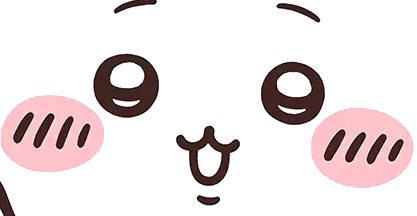
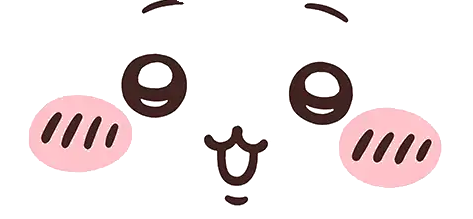
fix : 얼굴을 머리 안쪽 영역만 남기도록 수정, 웹폰트 선로딩 제거

diff --git a/src/app/globals.css b/src/app/globals.css
@@ -43,9 +43,9 @@ body {
   line-height: 1.65;
   -webkit-font-smoothing: antialiased;
 }
-h1, h2, h3, .display { font-family: var(--font-display), var(--font-body), sans-serif; font-weight: 700; letter-spacing: -0.025em; line-height: 1.33; }
+h1, h2, h3, .display { font-family: var(--font-body), sans-serif; font-weight: 700; letter-spacing: -0.025em; line-height: 1.33; }
 /* 페이지 타이틀과 섹션 제목에만 귀여운 서체를 쓴다. 카드 제목·가격은 읽기 쉬운 산세리프 유지. */
-h1, .brand, .section-head h2, .page-head h1, .hero h1 { font-family: var(--font-cute), var(--font-display), sans-serif; font-weight: 700; letter-spacing: -0.01em; }
+h1, .brand, .section-head h2, .page-head h1, .hero h1 { font-family: var(--font-cute), var(--font-body), sans-serif; font-weight: 700; letter-spacing: -0.01em; }
 h1 { font-size: 2.05rem; margin: 0 0 0.25rem; }
 h2 { font-size: 1.3rem; margin: 0 0 0.75rem; }
 h3 { font-size: 1.08rem; margin: 0; }
@@ -87,7 +87,7 @@ li { margin-bottom: 0.3em; }
 .drawer { margin: 0 0 0 auto; width: min(304px, 84vw); max-width: none; height: 100dvh; max-height: none; border: none; padding: 0; background: transparent; overflow: visible; }
 .drawer-panel { height: 100%; padding: 18px 12px calc(20px + env(safe-area-inset-bottom)); background: var(--bg); border-left: 1px solid var(--line); overflow-y: auto; }
 .drawer-head { display: flex; align-items: center; justify-content: space-between; padding: 0 4px 0 14px; margin-bottom: 14px; }
-.drawer-title { font-family: var(--font-cute), var(--font-display), sans-serif; font-weight: 700; font-size: 1.16rem; color: var(--ink); }
+.drawer-title { font-family: var(--font-cute), var(--font-body), sans-serif; font-weight: 700; font-size: 1.16rem; color: var(--ink); }
 .drawer ul { list-style: none; padding: 0; margin: 0; display: grid; gap: 4px; }
 .drawer li { margin: 0; }
 .drawer a { display: flex; align-items: center; gap: 12px; padding: 13px 14px; border-radius: 14px; color: var(--ink-soft); font-weight: 600; font-size: 1.02rem; }
@@ -138,9 +138,9 @@ li { margin-bottom: 0.3em; }
 .card-media.contain { background: var(--surface); }
 .card-media.contain img { object-fit: contain; padding: 10px; }
 .card-body { padding: 12px 14px 15px; display: grid; gap: 5px; flex: 1; align-content: start; }
-.card-title { font-family: var(--font-display); font-weight: 700; font-size: 1rem; line-height: 1.38; letter-spacing: -0.025em; display: -webkit-box; -webkit-line-clamp: 2; -webkit-box-orient: vertical; overflow: hidden; }
+.card-title { font-family: var(--font-body), sans-serif; font-weight: 700; font-size: 1rem; line-height: 1.38; letter-spacing: -0.025em; display: -webkit-box; -webkit-line-clamp: 2; -webkit-box-orient: vertical; overflow: hidden; }
 .card-sub { font-size: 0.8rem; color: var(--muted); white-space: nowrap; overflow: hidden; text-overflow: ellipsis; }
-.card-price { font-family: var(--font-display); font-weight: 700; font-size: 1.05rem; color: var(--ink); white-space: nowrap; overflow: hidden; text-overflow: ellipsis; }
+.card-price { font-family: var(--font-body), sans-serif; font-weight: 700; font-size: 1.05rem; color: var(--ink); white-space: nowrap; overflow: hidden; text-overflow: ellipsis; }
 .card-badge { position: absolute; top: 9px; left: 9px; }
 
 /* ── 태그 / 칩 ───────────────────────────── */
@@ -166,7 +166,7 @@ li { margin-bottom: 0.3em; }
 .kv { display: grid; grid-template-columns: max-content minmax(0, 1fr); gap: 7px 16px; font-size: 0.95rem; }
 .kv dt { color: var(--muted); font-weight: 600; }
 .kv dd { margin: 0; }
-.btn { display: inline-flex; align-items: center; gap: 6px; padding: 11px 20px; border-radius: 999px; background: var(--ink); color: #fff; font-family: var(--font-display); font-weight: 700; font-size: 0.95rem; }
+.btn { display: inline-flex; align-items: center; gap: 6px; padding: 11px 20px; border-radius: 999px; background: var(--ink); color: #fff; font-family: var(--font-body), sans-serif; font-weight: 700; font-size: 0.95rem; }
 .btn:hover { opacity: 0.88; }
 .btn.soft { background: var(--pink); color: var(--accent-ink); }
 .back { display: inline-block; margin-bottom: 12px; color: var(--muted); font-size: 0.9rem; font-weight: 600; }
@@ -177,7 +177,7 @@ li { margin-bottom: 0.3em; }
 .table th, .table td { text-align: left; padding: 9px 11px; border-bottom: 1px solid var(--line); vertical-align: top; }
 .table th { color: var(--muted); font-weight: 600; }
 .table tr:hover td { background: var(--surface-2); }
-.table td.num { font-family: var(--font-display); font-weight: 700; color: var(--ink-soft); white-space: nowrap; }
+.table td.num { font-family: var(--font-body), sans-serif; font-weight: 700; color: var(--ink-soft); white-space: nowrap; }
 .table td:last-child { font-size: 0.85rem; }
 .table-wrap { overflow-x: auto; }
 
@@ -304,7 +304,7 @@ li { margin-bottom: 0.3em; }
 .fields input:focus { outline: none; border-color: var(--pink-deep); }
 
 .result .total { font-size: 1.1rem; margin: 14px 0 0; padding-top: 14px; border-top: 1px solid var(--line); display: flex; justify-content: space-between; align-items: baseline; }
-.result .total strong { font-family: var(--font-display); font-size: 1.7rem; }
+.result .total strong { font-family: var(--font-body), sans-serif; font-size: 1.7rem; }
 .markup { margin-top: 14px; background: var(--pink); border-radius: 14px; padding: 14px 16px; }
 .markup > strong:first-child { display: block; margin-bottom: 5px; color: var(--accent-ink); }
 .markup p { font-size: 0.88rem; margin: 0; line-height: 1.65; }
@@ -342,7 +342,7 @@ li { margin-bottom: 0.3em; }
   transform: translate(-50%, -100%);
   background: var(--surface);
   color: var(--ink);
-  font-family: var(--font-cute), var(--font-display), sans-serif;
+  font-family: var(--font-cute), var(--font-body), sans-serif;
   font-size: 1.05rem;
   padding: 7px 15px;
   border-radius: 999px;

diff --git a/src/app/layout.tsx b/src/app/layout.tsx
@@ -1,14 +1,32 @@
 import type { Metadata, Viewport } from 'next';
-import { Gaegu, Gothic_A1, Noto_Sans_KR } from 'next/font/google';
+import { Gaegu, Noto_Sans_KR } from 'next/font/google';
 import { SiteHeader } from '@/components/SiteHeader';
 import { asset } from '@/lib/asset';
 import { Analytics } from '@/components/Analytics';
 import './globals.css';
 
-const display = Gothic_A1({ weight: ['600', '700', '800'], subsets: ['latin'], variable: '--font-display' });
+/*
+ * 한글 웹폰트는 글자 범위별로 백 개 넘는 조각으로 쪼개져 온다.
+ * preload 를 켜면 그 조각을 전부 미리 받느라 2MB 가 넘고, 그동안 글자가 기본 글씨체로 보이다 바뀐다.
+ * 끄면 브라우저가 화면에 실제로 쓰인 글자의 조각만 가져온다.
+ *
+ * 굵기도 쓰는 것만 남겼다. 하나 늘릴 때마다 조각 수가 그만큼 곱해진다.
+ */
+const body = Noto_Sans_KR({
+  weight: ['400', '700'],
+  subsets: ['latin'],
+  variable: '--font-body',
+  display: 'swap',
+  preload: false,
+});
 // 페이지 타이틀에만 쓰는 귀여운 서체. 본문·카드는 산세리프를 유지한다.
-const cute = Gaegu({ weight: ['400', '700'], subsets: ['latin'], variable: '--font-cute' });
-const body = Noto_Sans_KR({ weight: ['400', '500', '700'], subsets: ['latin'], variable: '--font-body' });
+const cute = Gaegu({
+  weight: ['700'],
+  subsets: ['latin'],
+  variable: '--font-cute',
+  display: 'swap',
+  preload: false,
+});
 
 const SITE_URL = process.env.NEXT_PUBLIC_SITE_URL ?? 'https://ohaeun.github.io/chiikawaFinder/';
 
@@ -50,7 +68,7 @@ export const viewport: Viewport = { themeColor: '#fdfcfb', width: 'device-width'
 
 export default function RootLayout({ children }: { children: React.ReactNode }) {
   return (
-    <html lang="ko" className={`${display.variable} ${body.variable} ${cute.variable}`} style={cursorVars}>
+    <html lang="ko" className={`${body.variable} ${cute.variable}`} style={cursorVars}>
       <body>
         <SiteHeader />
         <main className="container page">{children}</main>

diff --git a/src/components/hero/characters.ts b/src/components/hero/characters.ts
@@ -59,8 +59,9 @@ const CAP_COLOR: Partial<Record<CharacterKey, string>> = { hachiware: HACHIWARE_
  */
 const FACE_PHOTO: Record<CharacterKey, FacePhoto> = {
   chiikawa: { src: asset('/images/hero/face-chiikawa.png'), eyeSpan: 163, eyeY: 82 },
-  hachiware: { src: asset('/images/hero/face-hachiware.png'), eyeSpan: 168, eyeY: 64 },
-  usagi: { src: asset('/images/hero/face-usagi.png'), eyeSpan: 163, eyeY: 133 },
+  // 눈썹이 파란 앞머리 선에 붙어 있어 그림에서 떼어 낼 수 없다. 코드로 찍는다.
+  hachiware: { src: asset('/images/hero/face-hachiware.png'), eyeSpan: 168, eyeY: 65, drawnBrows: true },
+  usagi: { src: asset('/images/hero/face-usagi.png'), eyeSpan: 163, eyeY: 139 },
 };
 /**
  * 인형 재질. 일반 재질은 아무리 거칠게 해도 플라스틱처럼 보인다.

diff --git a/src/components/hero/faceTexture.ts b/src/components/hero/faceTexture.ts
@@ -213,6 +213,8 @@ export interface FacePhoto {
   eyeSpan: number;
   /** 그림 위쪽에서 눈까지의 거리(px) */
   eyeY: number;
+  /** 눈썹을 따로 그려야 하는지. 앞머리 선과 붙어 있어 그림에서 떼어 낼 수 없을 때 쓴다. */
+  drawnBrows?: boolean;
 }
 
 function drawPhotoFace(ctx: CanvasRenderingContext2D, image: HTMLImageElement, photo: FacePhoto): void {
@@ -255,6 +257,10 @@ export function createFaceTexture(
 
     if (image && photo) {
       drawPhotoFace(ctx, image, photo);
+      if (photo.drawnBrows) {
+        drawBrow(ctx, -1, brow);
+        drawBrow(ctx, 1, brow);
+      }
     } else {
       // 그림을 못 받아 왔을 때만 손으로 그린다.
       drawBlush(ctx, -1);

diff --git a/scripts/hero-face.py b/scripts/hero-face.py
@@ -11,6 +11,7 @@
 
 import math
 from pathlib import Path
+from typing import Optional
 
 from PIL import Image
 
@@ -27,17 +28,92 @@ EYES = {
 # 자를 범위. 눈 사이 거리를 1로 본 배수다.
 # 머리 윤곽선이 들어오면 얼굴에 검은 테가 생기고, 위를 너무 잡으면 꽃 장식이 딸려 온다.
 BOX = {
-    # 눈썹이 바로 꽃 장식 아래라 위쪽 여유가 거의 없다.
-    "chiikawa": (1.28, 0.50, 0.82),
-    # 파란 앞머리는 3D 가 따로 덮는다. 그 아래부터만 쓴다.
-    "hachiware": (1.16, 0.38, 0.76),
-    # 눈썹이 이마를 크게 가로질러 위를 넉넉히 잡아야 한다.
-    "usagi": (1.20, 0.82, 0.78),
+    # 꽃 장식이 y=294 까지 내려오고 눈썹이 295 부터다. 그 사이를 자른다.
+    "chiikawa": (1.45, 0.50, 0.84),
+    # 앞머리 윤곽선이 y=309 까지 내려와 눈썹과 붙어 있다. 눈썹은 코드로 따로 그린다.
+    "hachiware": (1.45, 0.39, 0.84),
+    # 눈썹 활이 y=285 부터다. 그 위는 꽃 장식이다.
+    "usagi": (1.45, 0.855, 0.86),
 }
 
 # 이 색은 몸이다. 지우고 나면 눈·눈썹·볼·입만 남는다.
 FADE_FROM = 26
 FADE_TO = 62
+
+# 머리 테두리 안쪽으로 이만큼 더 들어와야 테두리 잔상이 안 남는다.
+INSET = 9
+# 이 밝기 위를 맨 얼굴로 본다. 윤곽선·눈·눈썹은 이보다 어둡다.
+PLAIN = 300
+
+
+def face_region(image: Image.Image, seed: tuple[int, int]) -> set[int]:
+    """
+    얼굴 안쪽 픽셀을 찾는다.
+
+    눈 사이에서 시작해 맨 얼굴 색을 따라 번진다. 진한 선에서 멈추므로
+    머리 윤곽선 · 파란 앞머리 · 꽃 장식 바깥으로는 넘어가지 않는다.
+    그 다음 안에 뚫린 구멍(눈·눈썹·볼·입)을 메우고, 테두리 잔상이 없게 안쪽으로 깎는다.
+
+    줄마다 바깥에서 세어 들어오는 방식은 볼터치가 가장자리에 닿는 줄에서 얼굴을 통째로 지웠다.
+    """
+    width, height = image.size
+    pixels = image.load()
+    plain = [
+        pixels[x, y][3] > 128 and sum(pixels[x, y][:3]) >= PLAIN
+        for y in range(height)
+        for x in range(width)
+    ]
+    index = lambda x, y: y * width + x
+
+    def spread(starts: list[int], allowed: list[bool]) -> bytearray:
+        seen = bytearray(width * height)
+        stack = [i for i in starts if allowed[i]]
+        for i in stack:
+            seen[i] = 1
+        while stack:
+            i = stack.pop()
+            x, y = i % width, i // width
+            for nx, ny in ((x - 1, y), (x + 1, y), (x, y - 1), (x, y + 1)):
+                if 0 <= nx < width and 0 <= ny < height:
+                    j = index(nx, ny)
+                    if not seen[j] and allowed[j]:
+                        seen[j] = 1
+                        stack.append(j)
+        return seen
+
+    skin = spread([index(*seed)], plain)
+
+    # 구멍 메우기: 바깥에서 번져 닿지 않는 자리는 모두 얼굴 안이다.
+    not_skin = [not v for v in skin]
+    border = [index(x, y) for x in range(width) for y in (0, height - 1)]
+    border += [index(x, y) for y in range(height) for x in (0, width - 1)]
+    outside = spread(border, not_skin)
+    inside = bytearray(1 if not outside[i] else 0 for i in range(width * height))
+
+    # 테두리 쪽으로 INSET 만큼 깎는다.
+    frontier = [
+        i
+        for i in range(width * height)
+        if inside[i]
+        and (
+            i % width in (0, width - 1)
+            or i // width in (0, height - 1)
+            or not (inside[i - 1] and inside[i + 1] and inside[i - width] and inside[i + width])
+        )
+    ]
+    for _ in range(INSET):
+        nxt = []
+        for i in frontier:
+            inside[i] = 0
+            x, y = i % width, i // width
+            for nx, ny in ((x - 1, y), (x + 1, y), (x, y - 1), (x, y + 1)):
+                if 0 <= nx < width and 0 <= ny < height:
+                    j = index(nx, ny)
+                    if inside[j]:
+                        nxt.append(j)
+        frontier = nxt
+
+    return {i for i in range(width * height) if inside[i]}
 
 
 def body_color(image: Image.Image, eye_mid: tuple[int, int], span: float) -> tuple[int, int, int]:
@@ -67,10 +143,15 @@ def main() -> None:
         face = leveled.crop(box)
 
         fill = body_color(leveled, (round(mid[0]), round(mid[1])), span)
+        seed = (round(mid[0]), round(mid[1] - span * 0.42))
+        region = face_region(leveled, seed)
         pixels = face.load()
         for y in range(face.height):
             for x in range(face.width):
                 r, g, b, a = pixels[x, y]
+                if (box[1] + y) * leveled.width + (box[0] + x) not in region:
+                    pixels[x, y] = (r, g, b, 0)
+                    continue
                 distance = math.dist((r, g, b), fill)
                 keep = (distance - FADE_FROM) / (FADE_TO - FADE_FROM)
                 pixels[x, y] = (r, g, b, round(a * max(0.0, min(1.0, keep))))
